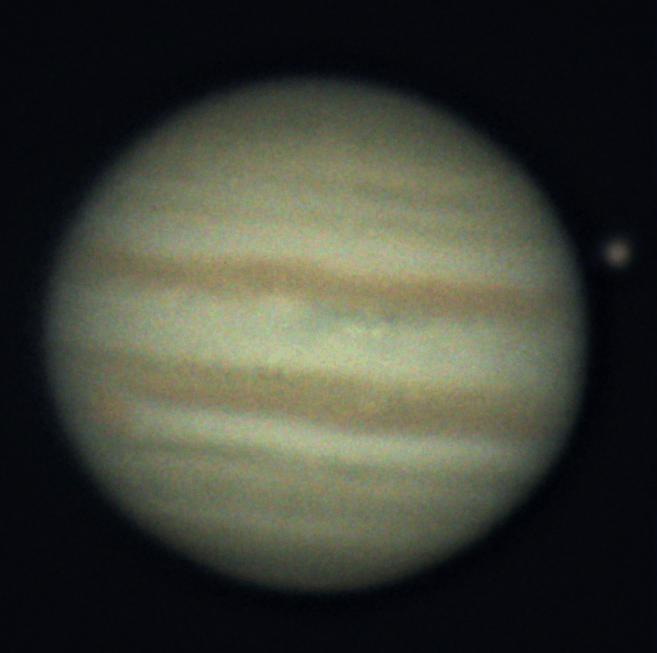
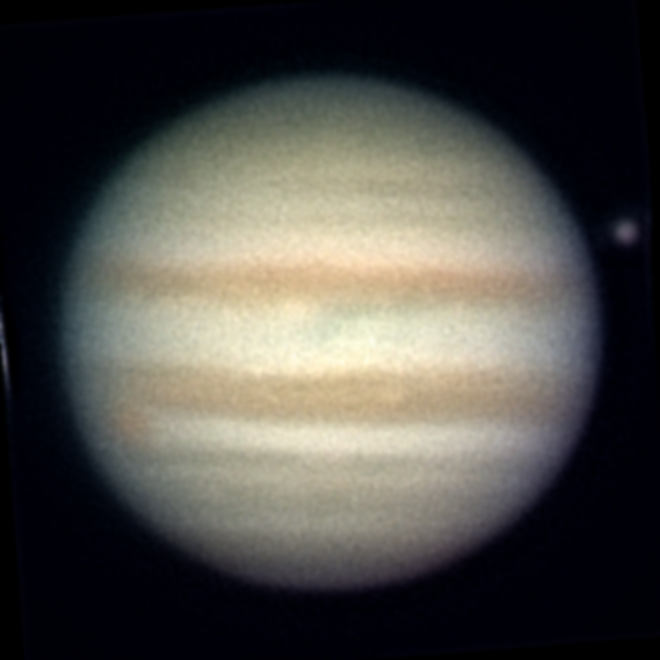
Auto stretch in post processing

diff --git a/components/PostProcessor.vue b/components/PostProcessor.vue
@@ -33,7 +33,7 @@
 				<div class="spinner"></div>
 			</div>
 
-			<!-- Pipeline order: RGB Alignment → Color Balance → Sharpening → Color Adjustments → Crop → Rotation -->
+			<!-- Pipeline order: RGB Alignment → Color Balance → Auto Stretch → Sharpening → Color Adjustments → Crop → Rotation -->
 
 			<div class="color-alignment">
 				<h4>RGB Alignment <a href="#" class="manual-link" @click.prevent="showManualRgbControls = !showManualRgbControls">{{ showManualRgbControls ? 'hide manual' : 'manual' }}</a></h4>
@@ -62,6 +62,10 @@
 				<label class="checkbox-label">
 					<input type="checkbox" v-model="autoColorBalance" @change="applyProcessing" />
 					Auto (gray world)
+				</label>
+				<label class="checkbox-label">
+					<input type="checkbox" v-model="autoStretch" @change="applyProcessing" />
+					Auto stretch (levels)
 				</label>
 			</div>
 
@@ -173,14 +177,13 @@
 			<p>The post-processor helps you bring out detail in stacked planetary images. All processing runs locally in your browser.</p>
 
 			<h4>Features</h4>
-			<ul>
-				<li><strong>Wavelet sharpening</strong><br/>Sharpening that brings out surface details. Includes denoise to reduce noise (by blurring again, weird!). Works on luminance only to avoid color noise.</li>
-				<li><strong>Unsharp mask</strong><br/> Another sharpening option. Sometimes works better than wavelets, sometimes worse. Try both!</li>
-				<li><strong>Color adjustments</strong><br/> Tweak brightness, contrast, gamma, and saturation. Vibrance is like saturation but gentler on already-colorful areas.</li>
-				<li><strong>RGB alignment</strong><br/> Fixes the colored fringes you get from atmospheric dispersion. Auto-detect usually works, or nudge the channels manually.</li>
-				<li><strong>Rotation and crop</strong><br/> Straighten things up and cut off the messy edges.</li>
-				<li><strong>16-bit processing</strong><br/> Every image is processed in 16-bit, so adjustments are more precise and you won't lose detail.</li>
-			</ul>
+			<p><strong>Wavelet sharpening</strong><br/>Sharpening that brings out surface details. Includes denoise to reduce noise (by blurring again, weird!). Works on luminance only to avoid color noise.</p>
+			<p><strong>Unsharp mask</strong><br/>Another sharpening option. Sometimes works better than wavelets, sometimes worse. Try both!</p>
+			<p><strong>Color adjustments</strong><br/>Tweak brightness, contrast, gamma, and saturation. Vibrance is like saturation but gentler on already-colorful areas.</p>
+			<p><strong>RGB alignment</strong><br/>Fixes the colored fringes you get from atmospheric dispersion. Auto-detect usually works, or nudge the channels manually.</p>
+			<p><strong>Auto stretch</strong><br/>Automatically adjusts black and white points to use the full brightness range. Great starting point before manual tweaking.</p>
+			<p><strong>Rotation and crop</strong><br/>Straighten things up and cut off the messy edges.</p>
+			<p><strong>16-bit processing</strong><br/>Every image is processed in 16-bit, so adjustments are more precise and you won't lose detail.</p>
 		</template>
 		<template v-else>
 			<ZoomableCanvas ref="zoomableCanvasRef" id="postProcessCanvas" @canvasReady="handleCanvasReady" :disableDrag="cropMode" :previewRotation="previewRotationAngle">
@@ -521,6 +524,7 @@ const gamma = ref(1);
 const saturation = ref(1);
 const vibrance = ref(0);
 const autoColorBalance = ref(false);
+const autoStretch = ref(false);
 const preNoiseReduction = ref(0);
 const waveletsRadius = ref(0);
 const waveletsAmount = ref(0);
@@ -849,6 +853,12 @@ const applyProcessingInternal = async() => {
 		workingData = applyAutoColorBalance16(workingData, width, height);
 	}
 
+	// STEP 0.6: Auto stretch (levels)
+	// Stretches black/white points to full range before sharpening
+	if (autoStretch.value) {
+		workingData = applyAutoStretch16(workingData, width, height);
+	}
+
 	// STEP 1: Sharpening (based on selected method)
 	if (sharpeningMethod.value === 'usm' && usmAmount.value > 0) {
 		try {
@@ -1171,6 +1181,70 @@ function applyAutoColorBalance16(data, width, height) {
 		result[idx] = Math.min(1, data[idx] * scaleR);
 		result[idx + 1] = data[idx + 1]; // Green unchanged
 		result[idx + 2] = Math.min(1, data[idx + 2] * scaleB);
+		result[idx + 3] = data[idx + 3]; // Alpha unchanged
+	}
+
+	return result;
+}
+
+// ==================== AUTO STRETCH ====================
+// Applies levels adjustment: maps black/white points to 0/1 range
+
+function applyAutoStretch16(data, width, height) {
+	const pixelCount = width * height;
+
+	// Sample every Nth pixel for speed (max ~100k samples)
+	const sampleStep = Math.max(1, Math.floor(pixelCount / 100000));
+
+	// Collect luminance values (excluding near-black background)
+	const luminances = [];
+	for (let i = 0; i < pixelCount; i += sampleStep) {
+		const idx = i * 4;
+		const r = data[idx];
+		const g = data[idx + 1];
+		const b = data[idx + 2];
+		// Standard luminance formula
+		const lum = 0.2126 * r + 0.7152 * g + 0.0722 * b;
+		// Skip pure black pixels (likely background)
+		if (lum > 0.005) {
+			luminances.push(lum);
+		}
+	}
+
+	if (luminances.length < 100) {
+		console.warn('Auto stretch: not enough non-black pixels, skipping');
+		return data;
+	}
+
+	// Sort to find percentiles
+	luminances.sort((a, b) => a - b);
+
+	// Find 0.5% and 99.5% percentiles
+	const lowIdx = Math.floor(luminances.length * 0.005);
+	const highIdx = Math.floor(luminances.length * 0.995);
+	const blackPoint = luminances[lowIdx];
+	const whitePoint = luminances[highIdx];
+	const range = whitePoint - blackPoint;
+
+	if (range < 0.01) {
+		console.warn('Auto stretch: image already has full range, skipping');
+		return data;
+	}
+
+	console.log(`Auto stretch: black=${blackPoint.toFixed(4)}, white=${whitePoint.toFixed(4)}, range=${range.toFixed(4)}`);
+
+	// Apply levels with headroom for sharpening
+	// Stretch to 0.0-0.9 range (90%) to leave room for wavelet boosts
+	const targetMax = 0.9;
+	const scale = targetMax / range;
+
+	const result = new Float32Array(data.length);
+	for (let i = 0; i < pixelCount; i++) {
+		const idx = i * 4;
+		// Stretch each channel using same black/white points, with headroom
+		result[idx] = Math.max(0, Math.min(1, (data[idx] - blackPoint) * scale));
+		result[idx + 1] = Math.max(0, Math.min(1, (data[idx + 1] - blackPoint) * scale));
+		result[idx + 2] = Math.max(0, Math.min(1, (data[idx + 2] - blackPoint) * scale));
 		result[idx + 3] = data[idx + 3]; // Alpha unchanged
 	}
 

diff --git a/public/webgpu_template_match.js b/public/webgpu_template_match.js
@@ -163,8 +163,9 @@ fn main(@builtin(global_invocation_id) gid: vec3<u32>) {
 }
 `;
 
-// Batch shader with GPU-side max reduction - outputs only (dx, dy, quality) per (frame, AP)
+// Batch shader with GPU-side max reduction and sub-pixel refinement
 // Uses workgroup shared memory for parallel reduction
+// After finding integer peak, applies parabolic fitting to neighboring scores for sub-pixel precision
 //
 // PRECISION NOTE: Frame grayscale data is stored as packed u8 (4 pixels per u32) for memory efficiency.
 // This is sufficient for alignment because:
@@ -319,17 +320,46 @@ fn main(
         workgroupBarrier();
     }
 
-    // Thread 0 writes final result: (dx, dy, score) for this (frame, AP)
+    // Thread 0 does sub-pixel refinement and writes final result
     if (threadIdx == 0u) {
         let finalOffset = sharedOffsets[0];
-        let finalDx = i32(finalOffset & 0xFFFFu) - searchRadius;
-        let finalDy = i32(finalOffset >> 16u) - searchRadius;
-        let finalScore = sharedScores[0];
+        let intDx = i32(finalOffset & 0xFFFFu) - searchRadius;
+        let intDy = i32(finalOffset >> 16u) - searchRadius;
+        let centerScore = sharedScores[0];
+
+        // Sub-pixel refinement using parabolic fitting
+        // Sample the 4 neighbors (if within search bounds)
+        var subDx: f32 = 0.0;
+        var subDy: f32 = 0.0;
+
+        // X-direction refinement
+        if (intDx > -searchRadius && intDx < searchRadius) {
+            let scoreLeft = computeBatchNCC(frameIdx, apIdx, intDx - 1, intDy);
+            let scoreRight = computeBatchNCC(frameIdx, apIdx, intDx + 1, intDy);
+            let denom = scoreLeft - 2.0 * centerScore + scoreRight;
+            if (abs(denom) > 0.0001) {
+                subDx = 0.5 * (scoreLeft - scoreRight) / denom;
+                // Clamp to [-0.5, 0.5] to avoid extrapolation
+                subDx = clamp(subDx, -0.5, 0.5);
+            }
+        }
+
+        // Y-direction refinement
+        if (intDy > -searchRadius && intDy < searchRadius) {
+            let scoreUp = computeBatchNCC(frameIdx, apIdx, intDx, intDy - 1);
+            let scoreDown = computeBatchNCC(frameIdx, apIdx, intDx, intDy + 1);
+            let denom = scoreUp - 2.0 * centerScore + scoreDown;
+            if (abs(denom) > 0.0001) {
+                subDy = 0.5 * (scoreUp - scoreDown) / denom;
+                // Clamp to [-0.5, 0.5] to avoid extrapolation
+                subDy = clamp(subDy, -0.5, 0.5);
+            }
+        }
 
         let resultIdx = (frameIdx * params.numAPs + apIdx) * 3u;
-        results[resultIdx] = f32(finalDx);
-        results[resultIdx + 1u] = f32(finalDy);
-        results[resultIdx + 2u] = finalScore;
+        results[resultIdx] = f32(intDx) + subDx;
+        results[resultIdx + 1u] = f32(intDy) + subDy;
+        results[resultIdx + 2u] = centerScore;
     }
 }
 `;
@@ -1453,22 +1483,58 @@ async function matchTemplatesGPU(refGrayData, frameGrayData, width, height, alig
     const shifts = [];
     const gridSize = 2 * searchRadius + 1;
 
+    // Helper to get score at grid position, returns -1 if out of bounds
+    const getScore = (apIdx, gx, gy) => {
+        if (gx < 0 || gx >= gridSize || gy < 0 || gy >= gridSize) return -1;
+        return resultsData[apIdx * numSearchPositions + gy * gridSize + gx];
+    };
+
     for (let i = 0; i < numAPs; i++) {
         let bestScore = -1;
-        let bestDx = 0;
-        let bestDy = 0;
+        let bestGx = 0;  // Grid position (0 to gridSize-1)
+        let bestGy = 0;
 
-        for (let dy = 0; dy < gridSize; dy++) {
-            for (let dx = 0; dx < gridSize; dx++) {
-                const score = resultsData[i * numSearchPositions + dy * gridSize + dx];
+        // Find integer peak
+        for (let gy = 0; gy < gridSize; gy++) {
+            for (let gx = 0; gx < gridSize; gx++) {
+                const score = resultsData[i * numSearchPositions + gy * gridSize + gx];
                 if (score > bestScore) {
                     bestScore = score;
-                    bestDx = dx - searchRadius;
-                    bestDy = dy - searchRadius;
+                    bestGx = gx;
+                    bestGy = gy;
                 }
             }
         }
-        shifts.push({ dx: bestDx, dy: bestDy, quality: bestScore });
+
+        // Sub-pixel refinement using parabolic fitting
+        let subDx = 0;
+        let subDy = 0;
+
+        // X-direction refinement (if not at edge)
+        if (bestGx > 0 && bestGx < gridSize - 1) {
+            const scoreLeft = getScore(i, bestGx - 1, bestGy);
+            const scoreRight = getScore(i, bestGx + 1, bestGy);
+            const denom = scoreLeft - 2 * bestScore + scoreRight;
+            if (Math.abs(denom) > 0.0001) {
+                subDx = 0.5 * (scoreLeft - scoreRight) / denom;
+                subDx = Math.max(-0.5, Math.min(0.5, subDx));  // Clamp
+            }
+        }
+
+        // Y-direction refinement (if not at edge)
+        if (bestGy > 0 && bestGy < gridSize - 1) {
+            const scoreUp = getScore(i, bestGx, bestGy - 1);
+            const scoreDown = getScore(i, bestGx, bestGy + 1);
+            const denom = scoreUp - 2 * bestScore + scoreDown;
+            if (Math.abs(denom) > 0.0001) {
+                subDy = 0.5 * (scoreUp - scoreDown) / denom;
+                subDy = Math.max(-0.5, Math.min(0.5, subDy));  // Clamp
+            }
+        }
+
+        const finalDx = (bestGx - searchRadius) + subDx;
+        const finalDy = (bestGy - searchRadius) + subDy;
+        shifts.push({ dx: finalDx, dy: finalDy, quality: bestScore });
     }
 
     return shifts;
